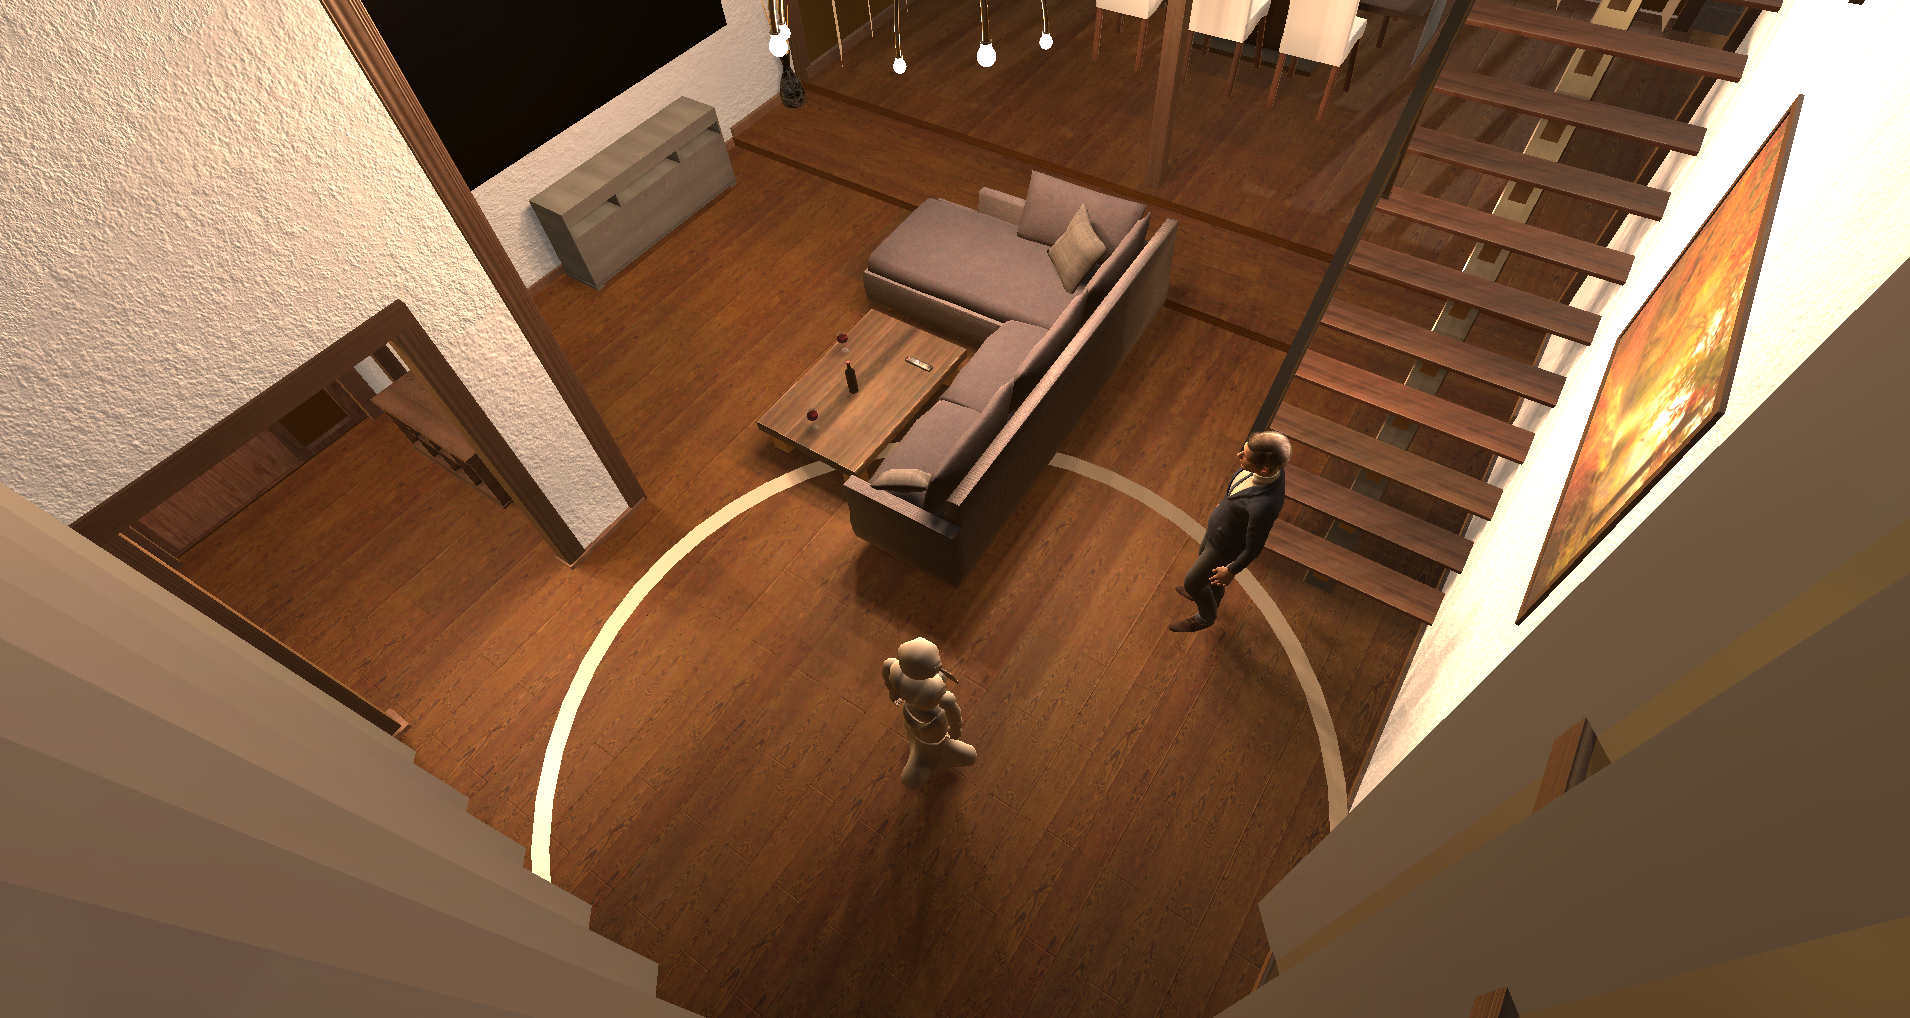
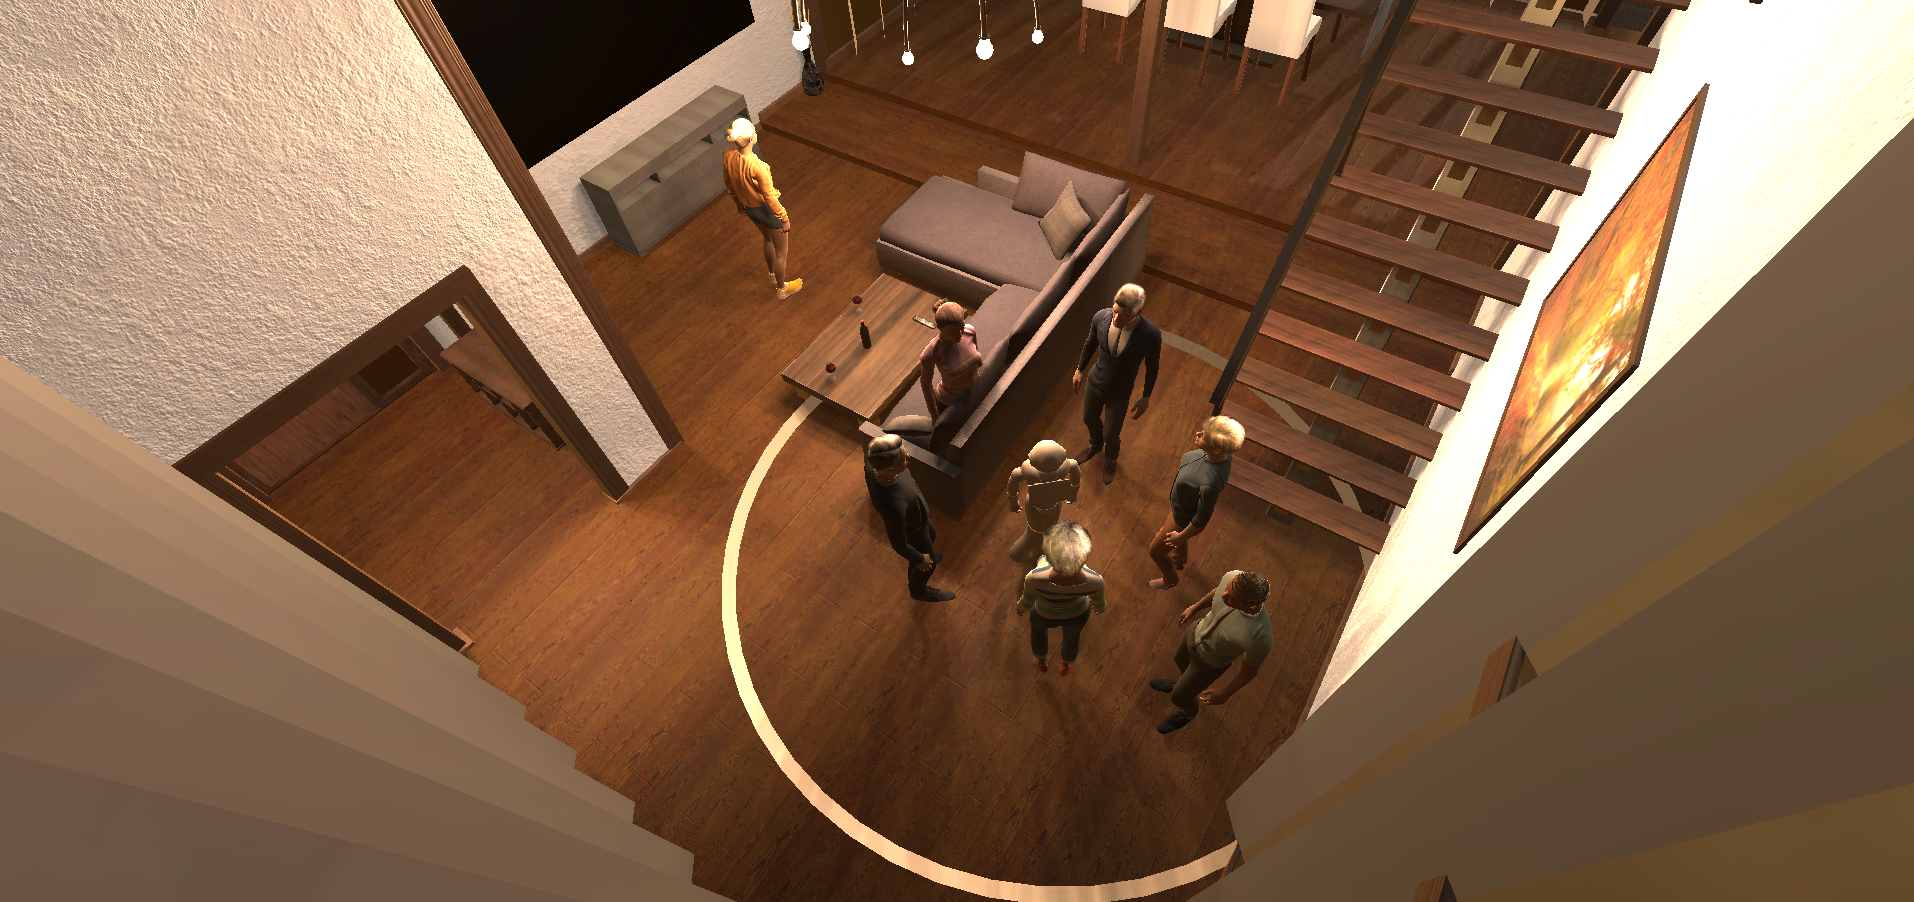
Now spawns correctly

diff --git a/Assets/demo.cs b/Assets/demo.cs
@@ -21,7 +21,8 @@ class demo : MonoBehaviour
     public GameObject human6;
     public GameObject layingHuman;
     public GameObject sittingHuman;
-    //public Animation phone;
+    public GameObject child1;
+    public GameObject child2;
     public GameObject dog;
     // Temporary:
     GameObject tempPepper;
@@ -33,6 +34,8 @@ class demo : MonoBehaviour
     GameObject tempHuman6;
     GameObject tempLayingHuman;
     GameObject tempSittingHuman;
+    GameObject tempChild1;
+    GameObject tempChild2;
     GameObject tempDog;
     private int standingHumanCount;
 
@@ -57,9 +60,9 @@ class demo : MonoBehaviour
     private int animalArea;
     // Children
     private float childXPos;
-    private float childlYPos;
+    private float childYPos;
     private float childZPos;
-    private float childRot;
+    private float childYRot;
     private int childArea;
     // Group variables
     private float groupXPos;
@@ -67,6 +70,9 @@ class demo : MonoBehaviour
     private float groupZPos;
     public int groupArea;
 
+    // Variables for objects instantiated:
+    public int instantatedStandingHumans;
+    public int agentsInScene;
 
     // Variables for circle around Pepper
     [Range(0, 50)]
@@ -81,6 +87,7 @@ class demo : MonoBehaviour
     private static string reportFileName = "features.csv";
     private static string reportSeparator = ",";
     private static string[] reportHeaders = new string[18] {
+        "Stamp",
         "Number of people",
         "Number of people in group",
         "Group radius",
@@ -96,9 +103,8 @@ class demo : MonoBehaviour
         "Distance to closest child",
         "Number of animals",
         "Distance to closest animal",
-        "Anyone taking a phone call?",
         "Number of people sitting/laying in sofa?",
-        "Stamp"
+        "Number of agents in scene"
     };
 
     // Feauture Variables
@@ -118,7 +124,6 @@ class demo : MonoBehaviour
     public float distChildren = 50; // Euclidean distance to closest child, if no child -> 50
     public int nAnimal;
     public float distAnimal = 50; // Euclidean distance to closest animal, if no animal -> 50
-    public int phoneCall;  // Binary
     public int nPeopleSofa;
 
 
@@ -134,23 +139,14 @@ class demo : MonoBehaviour
         line.useWorldSpace = true;
 
         // Store human game objects
-        List<GameObject> objects = new List<GameObject>() {human1, human2, human3, human4, human5, human6, layingHuman, sittingHuman, dog};
-        List<GameObject> temps = new List<GameObject>() {tempHuman1, tempHuman2, tempHuman3, tempHuman4, tempHuman5, tempHuman6, tempLayingHuman, tempSittingHuman, tempDog };
+        List<GameObject> objects = new List<GameObject>() {human1, human2, human3, human4, human5, human6, layingHuman, sittingHuman, child1, child2, dog};
+        List<GameObject> temps = new List<GameObject>() {tempHuman1, tempHuman2, tempHuman3, tempHuman4, tempHuman5, tempHuman6, tempLayingHuman, tempSittingHuman, tempChild1, tempChild2, tempDog };
         // Attach animation
         //phone = phoneHuman.gameObject.GetComponent<Animation>();
         // Create csv file and initiate headers:
         CreateReport();
         // Start program
         StartCoroutine(SpawnRandom(objects, temps));
-    }
-
-    private void DestroyPrefabsInScene(string tagName)
-    {
-        GameObject[] prefabs = GameObject.FindGameObjectsWithTag(tagName);
-        foreach (GameObject prefab in prefabs)
-        {
-            Destroy(prefab);
-        }
     }
 
     private (float, float) spawnPosition(int room_area)
@@ -252,10 +248,52 @@ class demo : MonoBehaviour
         return pos;
     }
 
+    private bool invalidPosition(Vector3 pos, List<GameObject> temps, Vector3 pepperPos)
+    {
+        // Check if colliding with Pepper
+        if (Vector3.Distance(pos, pepperPos) < 0.1)
+        {
+            return true;
+        }
+         // Check if colliding with standing humans
+        for (int i = 0; i < instantatedStandingHumans; i++)
+        {
+            if (Vector3.Distance(pos, temps[i].gameObject.transform.position) < 0.1)
+                {
+                    return true;
+                }
+        }
+
+        // Check if colliding with children
+        for (int i = 0; i < nChildren; i++)
+        {
+            if (Vector3.Distance(pos, temps[i+8].gameObject.transform.position) < 0.1)
+            {
+                return true;
+            }
+        }
+
+        // Check if colliding with animal
+        for (int i = 0; i < nAnimal; i++)
+        {
+            if (Vector3.Distance(pos, temps[i + 10].gameObject.transform.position) < 0.1)
+            {
+                return true;
+            }
+        }
+        return false;
+       
+        
+    }
+
     IEnumerator SpawnRandom(List<GameObject> objects, List<GameObject> temps)
     {
-        while (count < 10)
+        while (count < 20)
         {
+            instantatedStandingHumans = 0;
+            agentsInScene = 0;
+            nChildren = 0;
+            nAnimal = 0;
             // Determine number of standing people:
             standingHumanCount = Random.Range(1, 7);
             // Determine if group or not, only if 3 or more people
@@ -274,14 +312,16 @@ class demo : MonoBehaviour
                 groupYPos = -0.921f;
                 Vector3 groupCenter = new Vector3(groupXPos, groupYPos, groupZPos);
                 // Sample group radius
-                groupRadius = Random.Range(0.1f, 1.5f);
+                groupRadius = Random.Range(0.3f, 1.5f);
                 // Spawn people in group
-                for (int i = 0; i <= nPeopleGroup; i++){
+                for (int i = 0; i < nPeopleGroup; i++){
                     float angle = i * (360f / nPeopleGroup);
                     Vector3 pos = groupCircle(groupCenter, groupRadius, angle);
                     Vector3 relativePos = groupCenter - pos;
                     Quaternion rot = Quaternion.LookRotation(relativePos, Vector3.up);
                     temps[i] = Instantiate(objects[i], pos, rot);
+                    instantatedStandingHumans += 1;
+                    agentsInScene += 1;
                 }
 
                 // Determine if Pepper is in group
@@ -295,6 +335,7 @@ class demo : MonoBehaviour
                     pepperRot = Quaternion.Euler(0, Random.Range(0, 360), 0);
                     pepper.gameObject.transform.localScale = new Vector3(15, 15, 15);
                     tempPepper = Instantiate(pepper, pepperPos, pepperRot);
+                    agentsInScene += 1;
 
                     // Draw line around Pepper
                     float x;
@@ -342,8 +383,8 @@ class demo : MonoBehaviour
                     }
                     
                     pepper.gameObject.transform.localScale = new Vector3(15, 15, 15);
-                    //tempPepper = Instantiate(pepper, pepperPos, pepperRot);
-                    Instantiate(pepper, pepperPos, pepperRot);
+                    tempPepper = Instantiate(pepper, pepperPos, pepperRot);
+                    agentsInScene += 1;
                     // Determine distance to group
                     distGroup = Vector3.Distance(groupCenter, pepperPos);
                    
@@ -378,6 +419,7 @@ class demo : MonoBehaviour
                 facingGroup = 0;
                 pepper.gameObject.transform.localScale = new Vector3(15, 15, 15);
                 tempPepper = Instantiate(pepper, pepperPos, pepperRot);
+                agentsInScene += 1;
                 distGroup = 50;
 
                 // Draw line around Pepper
@@ -401,9 +443,9 @@ class demo : MonoBehaviour
 
             // Now spawn the rest of the humans:
             // First normal people standing
-            for (int i = nPeople; i < standingHumanCount; i++)
-            {
-                // If there's a group, avoid that area:
+            for (int i = nPeopleGroup; i < standingHumanCount; i++)
+            { 
+                // If a group, avoid that area:
                 humanArea = Random.Range(0, 4);
                 if (nPeopleGroup > 0)
                 {
@@ -415,10 +457,19 @@ class demo : MonoBehaviour
 
                 (humanXPos, humanZPos) = spawnPosition(humanArea);
                 humanYPos = -0.921f;
-                humanYRot = Random.Range(0, 360);
                 Vector3 humanPos = new Vector3(humanXPos, humanYPos, humanZPos);
+                // Check if something's already there
+                while (invalidPosition(humanPos, temps, new Vector3(pepperXPos, pepperYPos, pepperZPos)))
+                    {
+                    (humanXPos, humanZPos) = spawnPosition(humanArea);
+                    humanYPos = -0.921f;
+                    humanPos = new Vector3(humanXPos, humanYPos, humanZPos);
+                }
+                humanYRot = Random.Range(0, 360);
                 Quaternion humanRot = Quaternion.Euler(0, humanYRot, 0);
                 temps[i] = Instantiate(objects[i], humanPos, humanRot);
+                agentsInScene += 1;
+                instantatedStandingHumans += 1;
             }
             nPeople = standingHumanCount;
 
@@ -434,6 +485,7 @@ class demo : MonoBehaviour
                 Quaternion humanRot = Quaternion.Euler(0, humanYRot, 0);
                 objects[6].gameObject.transform.localScale = new Vector3(1, 1, 1);
                 temps[6] = Instantiate(objects[6], humanPos, humanRot);
+                agentsInScene += 1;
                 if (nPeopleSofa > 1)
                 {
                     humanYRot = -97.7f;
@@ -441,6 +493,7 @@ class demo : MonoBehaviour
                     humanRot = Quaternion.Euler(0, humanYRot, 0);
                     objects[7].gameObject.transform.localScale = new Vector3(1, 1, 1);
                     temps[7] = Instantiate(objects[7], humanPos, humanRot);
+                    agentsInScene += 1;
                 }
 
             }
@@ -450,20 +503,90 @@ class demo : MonoBehaviour
             }
             nPeople += nPeopleSofa;
 
+            // Spawn potential children
+            // Have children roughly every 5th scene:
+            if (Random.Range(0, 5) == 1)
+            {
+                // Spawn first child
+                childArea = Random.Range(0, 4);
+                (childXPos, childZPos) = spawnPosition(childArea);
+                childYPos = -0.921f;
+                Vector3 childPos = new Vector3(childXPos, childYPos, childZPos);
+                // Check if something's already there
+                while (invalidPosition(childPos, temps, new Vector3(pepperXPos, pepperYPos, pepperZPos)))
+                {
+                    (childXPos, childZPos) = spawnPosition(childArea);
+                    childYPos = -0.921f;
+                    childPos = new Vector3(childXPos, childYPos, childZPos);
+                }
+                childYRot = Random.Range(0, 360);
+                Quaternion childRot = Quaternion.Euler(0, childYRot, 0);
+                objects[8].gameObject.transform.localScale = new Vector3(0.75f, 0.75f, 0.75f);
+                temps[8] = Instantiate(objects[8], childPos, childRot);
+                nChildren += 1;
+                agentsInScene += 1;
+                distChildren = Vector3.Distance(childPos, new Vector3(pepperXPos, pepperYPos, pepperZPos));
+                // Have to childsren 50% of the time
+                if (Random.Range(0,2) == 1)
+                {
+                    // Spawn second child
+                    childArea = Random.Range(0, 4);
+                    (childXPos, childZPos) = spawnPosition(childArea);
+                    childYPos = -0.921f;
+                    childPos = new Vector3(childXPos, childYPos, childZPos);
+                    // Check if something's already there
+                    while (invalidPosition(childPos, temps, new Vector3(pepperXPos, pepperYPos, pepperZPos)))
+                    {
+                        (childXPos, childZPos) = spawnPosition(childArea);
+                        childYPos = -0.921f;
+                        childPos = new Vector3(childXPos, childYPos, childZPos);
+                    }
+                    childYRot = Random.Range(0, 360);
+                    childRot = Quaternion.Euler(0, childYRot, 0);
+                    objects[9].gameObject.transform.localScale = new Vector3(0.75f, 0.75f, 0.75f);
+                    temps[9] = Instantiate(objects[9], childPos, childRot);
+                    agentsInScene += 1;
+                    nChildren += 1;
+                    if (Vector3.Distance(childPos, new Vector3(pepperXPos, pepperYPos, pepperZPos)) < distChildren)
+                    {
+                        distChildren = Vector3.Distance(childPos, new Vector3(pepperXPos, pepperYPos, pepperZPos));
+                    }
+                }
+            }
+            else
+            {
+                distChildren = 0;
+                nChildren = 0;
+            }
+            nPeople += nChildren;
+
             // Spawn potential animals
             // Have animals roughly every 5th scene:
             if (Random.Range(0, 5) == 1)
             {
-                nAnimal = 1;
                 // If there's a group, avoid that area:
                 animalArea = Random.Range(0, 4);
                 (animalXPos, animalZPos) = spawnPosition(animalArea);
                 animalYPos = -0.921f;
-                animalYRot = Random.Range(0, 360);
                 Vector3 animalPos = new Vector3(animalXPos, animalYPos, animalZPos);
+                // Check if something's already there
+                while (invalidPosition(animalPos, temps, new Vector3(pepperXPos, pepperYPos, pepperZPos)))
+                {
+                    (animalXPos, animalZPos) = spawnPosition(animalArea);
+                    animalYPos = -0.921f;
+                    animalPos = new Vector3(animalXPos, animalYPos, animalZPos);
+                }
+                animalYRot = Random.Range(0, 360);
                 Quaternion animalRot = Quaternion.Euler(0, animalYRot, 0);
-                objects[8].gameObject.transform.localScale = new Vector3(70, 70, 70);
-                temps[8] = Instantiate(objects[8], animalPos, animalRot);
+                objects[10].gameObject.transform.localScale = new Vector3(70, 70, 70);
+                temps[10] = Instantiate(objects[10], animalPos, animalRot);
+                agentsInScene += 1;
+                nAnimal = 1;
+                distAnimal = Vector3.Distance(animalPos, new Vector3(pepperXPos, pepperYPos, pepperZPos));
+            } else
+            {
+                distAnimal = 0;
+                nAnimal = 0;
             }
 
 
@@ -471,6 +594,7 @@ class demo : MonoBehaviour
             ScreenCapture.CaptureScreenshot("data/screenshots/context_" + count.ToString() + ".png");
             // Write features to csv
             AppendToReport(new string[18] {
+                count.ToString(),
                 nPeople.ToString(),
                 nPeopleGroup.ToString(),
                 groupRadius.ToString(),
@@ -486,20 +610,20 @@ class demo : MonoBehaviour
                 distChildren.ToString(),
                 nAnimal.ToString(),
                 distAnimal.ToString(),
-                phoneCall.ToString(),
                 nPeopleSofa.ToString(),
-                count.ToString(),});
+                agentsInScene.ToString() });
 
 
             // Remove all gameobjects
             // Pepper
             Destroy(tempPepper, 0.1f);
-            for (int i = 0; i < 9; i++)
+
+            for (int i = 0; i < 11; i++)
             {
                 Destroy(temps[i], 0.1f);
             }
 
-            yield return new WaitForSeconds(1f);
+            yield return new WaitForSeconds(0.5f);
             count += 1;
         }
 
